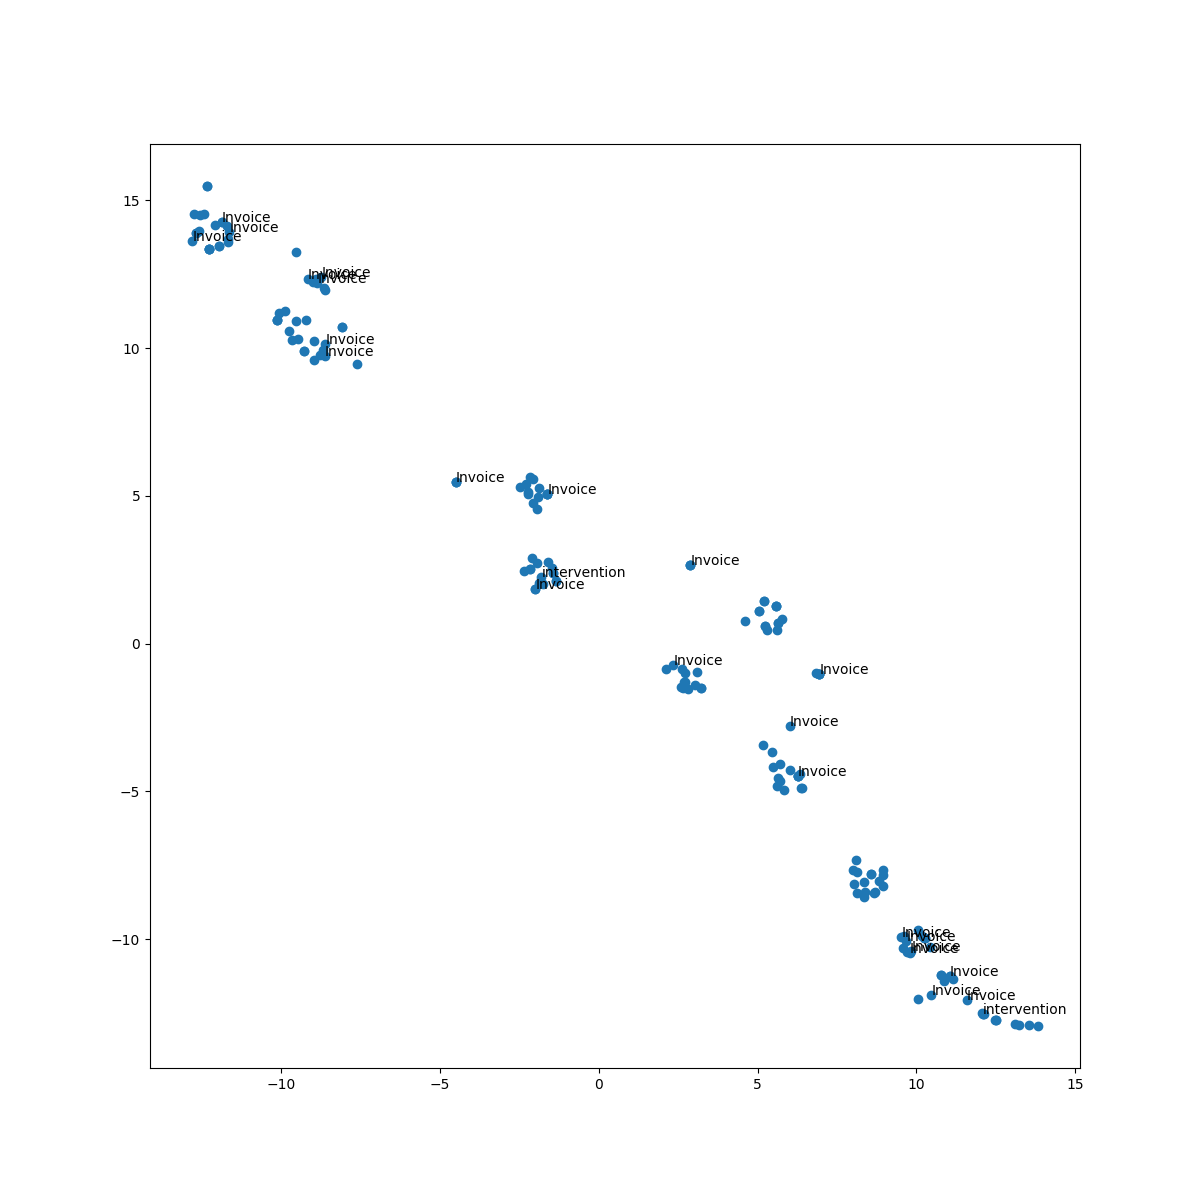
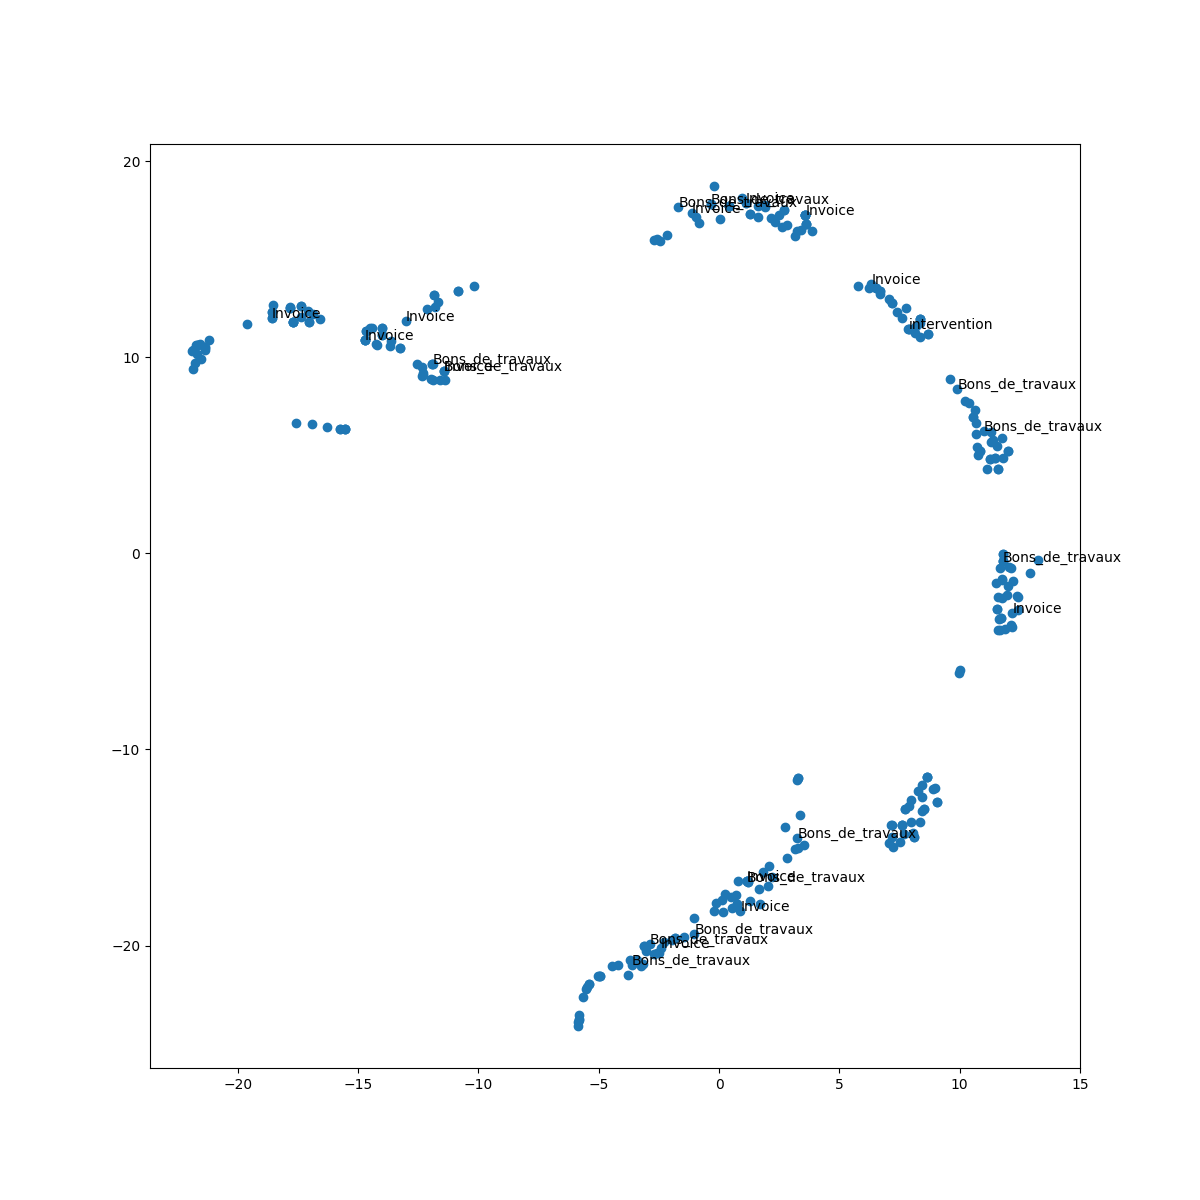
Second model

diff --git a/clustering.py b/clustering.py
@@ -125,7 +125,7 @@ def plot_with_matplotlib(x_vals, y_vals, labels, nbLabels: int = 25):
         plt.annotate(labels[i], (x_vals[i], y_vals[i]))
     plt.savefig('fig.png')
 
-filesDict = loadFiles(10)
+filesDict = loadFiles(100)
 processer = Processer()
 keys = filesDict.keys()
 
